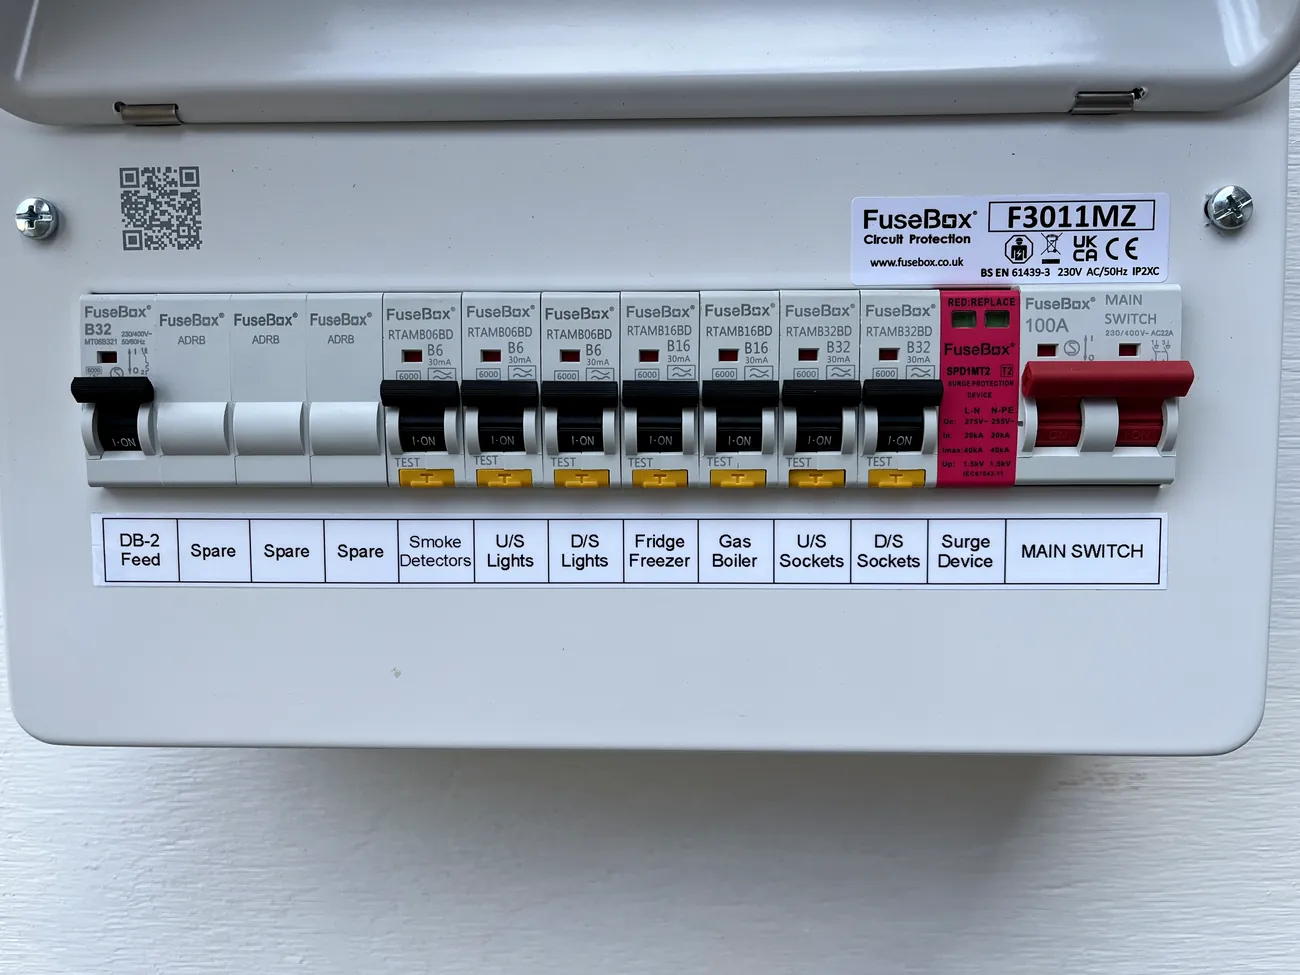
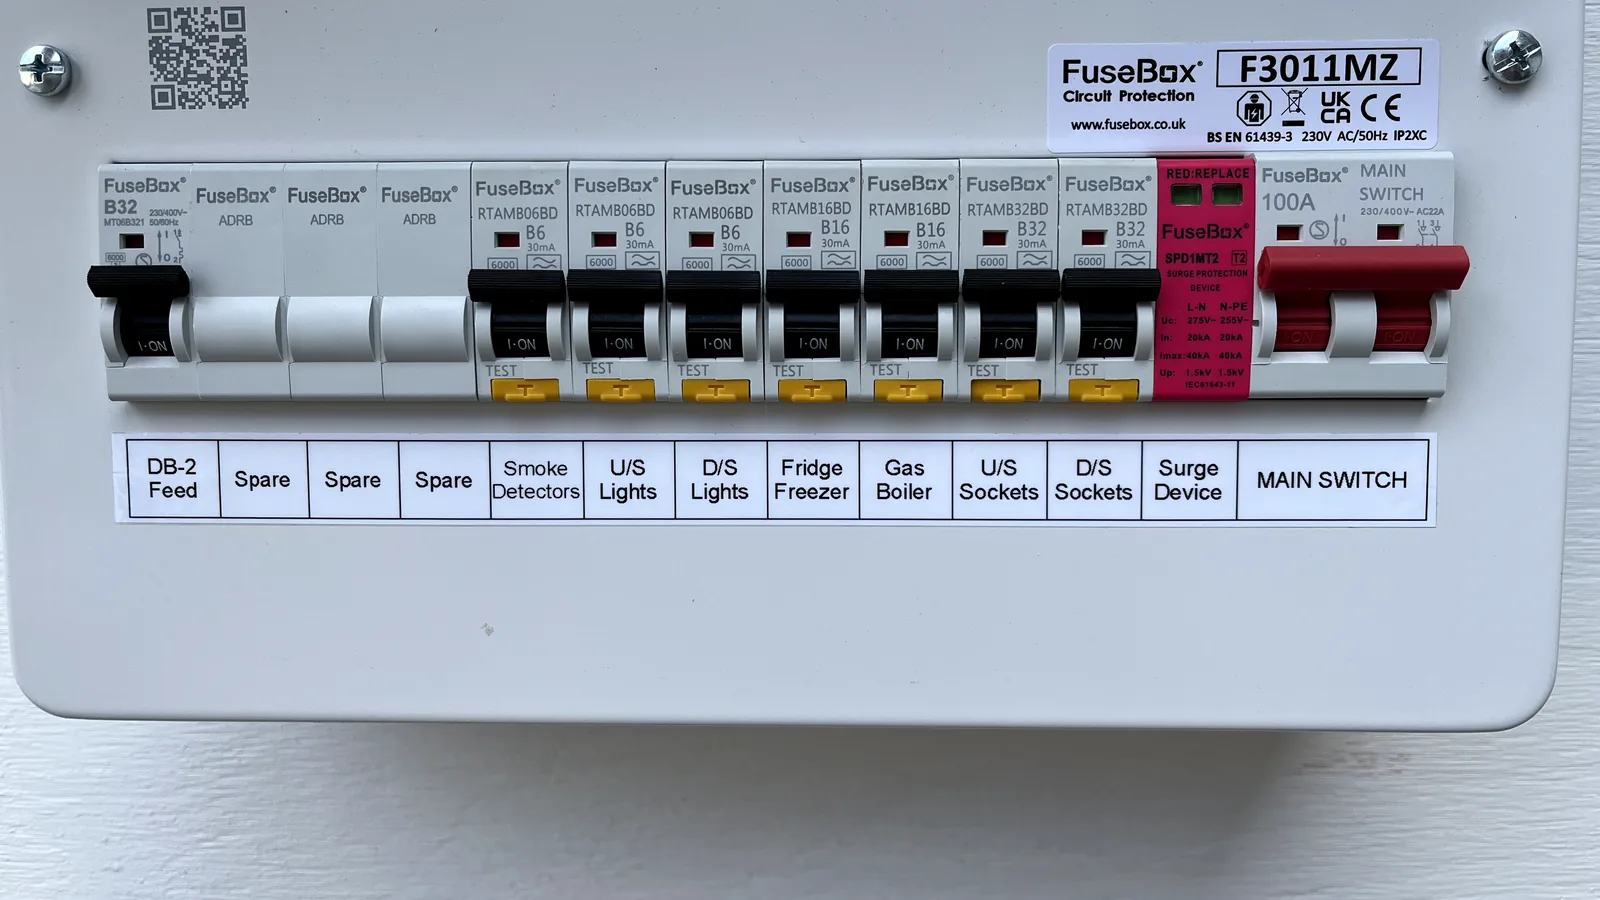
Hero re-crop (16:9, flap removed) + mid-page quote CTAs on 6 service pages
- Homepage hero: re-cropped the board photo to 16:9, dropping the open cover
  flap so the labelled circuit row is the dominant, non-generic content (all
  circuit labels kept). .hero-img aspect-ratio 4/3 -> 16/9.
- Added a mid-page .inline-cta quote banner to the 6 long service pages
  (consumer-unit, EICR, both rewires, cost-guide, new-build), each after a
  value section with benefit-led, service-specific copy pointing at /quote.
  Catches readers who scroll past the top pricing before the bottom CTA.

diff --git a/public/pages/house-rewire-cost-guide-dorset-2026.html b/public/pages/house-rewire-cost-guide-dorset-2026.html
@@ -24,8 +24,8 @@
 <link rel="preconnect" href="https://fonts.googleapis.com">
 <link rel="preconnect" href="https://fonts.gstatic.com" crossorigin>
 <link href="https://fonts.googleapis.com/css2?family=Inter:wght@400;500;600;700;800&amp;display=swap" rel="stylesheet">
-<link rel="stylesheet" href="../assets/css/styles.css?v=49b13499">
-<link rel="stylesheet" href="../assets/css/page.css?v=49b13499">
+<link rel="stylesheet" href="../assets/css/styles.css?v=0820d46a">
+<link rel="stylesheet" href="../assets/css/page.css?v=0820d46a">
 <script type="application/ld+json">
 {"@context":"https://schema.org","@graph":[{"@type":"Article","headline":"House Rewire Cost Guide Dorset 2026","author":{"@type":"Person","name":"Pete"},"publisher":{"@type":"Organization","name":"Dorset Rewires"},"datePublished":"2026-06-04","dateModified":"2026-06-14"},{"@type":"BreadcrumbList","itemListElement":[{"@type":"ListItem","position":1,"name":"Home","item":"https://dorsetrewires.co.uk/"},{"@type":"ListItem","position":2,"name":"Rewire Cost Guide Dorset 2026","item":"https://dorsetrewires.co.uk/house-rewire-cost-guide-dorset-2026"}]},{"@type":"FAQPage","mainEntity":[{"@type":"Question","name":"How much does it cost to rewire a 3-bed house in Dorset?","acceptedAnswer":{"@type":"Answer","text":"A 3-bed rewire in Dorset typically runs from 4,500 to 7,000 pounds in 2026. Big or high-spec homes go higher. The final price is fixed in writing after a free survey, and depends on circuit count, access and how many sockets and lights you want."}},{"@type":"Question","name":"Do I have to move out during a rewire?","acceptedAnswer":{"@type":"Answer","text":"For a full house rewire we work on empty properties only. That keeps the job faster, cleaner and cheaper. Smaller jobs like a consumer unit upgrade, an EICR or an EV charger can be done while you live in the home."}},{"@type":"Question","name":"How long does a house rewire take?","acceptedAnswer":{"@type":"Answer","text":"Most Dorset rewires take 3 to 15 days. A 1-bed flat is around 3 to 4 days. A large 5-bed period home can be 10 to 15 days. An empty property is quicker."}},{"@type":"Question","name":"Do I need a full rewire or just a new consumer unit?","acceptedAnswer":{"@type":"Answer","text":"If the cables are sound but the fuseboard is old, you may only need a new consumer unit from 625 pounds. If the cabling itself is past its safe life, you need a full rewire. A survey or an EICR tells you which."}},{"@type":"Question","name":"How much deposit do you take?","acceptedAnswer":{"@type":"Answer","text":"A 5 percent booking deposit secures your dates. The rest is paid in stages as the work progresses. Be wary of any electrician asking for a large cash deposit up front."}}]}]}
 </script>
@@ -133,6 +133,11 @@
         <li><strong>Lifting and relaying</strong> tiled or solid floors</li>
       </ul>
       <p>We list exactly what is in your job, in writing, before you commit a penny.</p>
+
+      <a class="inline-cta" href="/quote">
+        <span class="ic-text"><strong>Want your number, not a range?</strong>Build your exact rewire price on the quote tool. It uses Pete's real rate card.</span>
+        <span class="ic-btn">Build my price &rarr;</span>
+      </a>
 
       <h2 id="how-long">How long does it take?</h2>
       <p>Most rewires take 3 to 15 days of our time on site. A 1-bed flat is around 3 to 4 days. A big house is a week or more for the first fix, then a week or more for the second fix.</p>
@@ -259,6 +264,6 @@
     <p>&copy; 2026 Dorset Rewires All rights reserved. <a href="/privacy">Privacy</a> &middot; <a href="/terms">Terms</a></p>
   </div>
 </footer>
-<script src="../assets/js/script.js?v=49b13499"></script>
+<script src="../assets/js/script.js?v=0820d46a"></script>
 </body>
 </html>

diff --git a/public/pages/eicr-bournemouth.html b/public/pages/eicr-bournemouth.html
@@ -26,8 +26,8 @@
 <link rel="preconnect" href="https://fonts.googleapis.com">
 <link rel="preconnect" href="https://fonts.gstatic.com" crossorigin>
 <link href="https://fonts.googleapis.com/css2?family=Inter:wght@400;500;600;700;800&amp;display=swap" rel="stylesheet">
-<link rel="stylesheet" href="../assets/css/styles.css?v=49b13499">
-<link rel="stylesheet" href="../assets/css/page.css?v=49b13499">
+<link rel="stylesheet" href="../assets/css/styles.css?v=0820d46a">
+<link rel="stylesheet" href="../assets/css/page.css?v=0820d46a">
 <script type="application/ld+json">
 {
   "@context": "https://schema.org",
@@ -166,6 +166,11 @@
         <li><strong>Anyone deciding on work</strong> - it tells you whether you need a <a href="/consumer-unit-upgrade-bournemouth">new consumer unit</a>, a <a href="/house-rewires-bournemouth">rewire</a>, or nothing at all</li>
       </ul>
       <p>Bournemouth has a large private-rental and HMO market, plus a big student population from Bournemouth University and Arts University Bournemouth driving student lets. That means a lot of landlord EICR demand across the BH postcodes, much of it run through letting agents. We are set up for exactly that work, one property or a whole portfolio.</p>
+
+      <a class="inline-cta" href="/quote">
+        <span class="ic-text"><strong>Know how many circuits you have?</strong>Count the switches on your board, then get your exact EICR price on the quote tool.</span>
+        <span class="ic-btn">Price my EICR &rarr;</span>
+      </a>
 
       <h2 id="local">Local, not a "from &pound;99" call centre</h2>
       <p>Search "EICR Bournemouth" and you will see a wall of national websites baiting you with a headline price. Here is what usually happens next.</p>
@@ -310,6 +315,6 @@
     <p>&copy; 2026 Dorset Rewires All rights reserved. <a href="/privacy">Privacy</a> &middot; <a href="/terms">Terms</a></p>
   </div>
 </footer>
-<script src="../assets/js/script.js?v=49b13499"></script>
+<script src="../assets/js/script.js?v=0820d46a"></script>
 </body>
 </html>

diff --git a/public/pages/house-rewires-bournemouth.html b/public/pages/house-rewires-bournemouth.html
@@ -26,8 +26,8 @@
 <link rel="preconnect" href="https://fonts.googleapis.com">
 <link rel="preconnect" href="https://fonts.gstatic.com" crossorigin>
 <link href="https://fonts.googleapis.com/css2?family=Inter:wght@400;500;600;700;800&amp;display=swap" rel="stylesheet">
-<link rel="stylesheet" href="../assets/css/styles.css?v=49b13499">
-<link rel="stylesheet" href="../assets/css/page.css?v=49b13499">
+<link rel="stylesheet" href="../assets/css/styles.css?v=0820d46a">
+<link rel="stylesheet" href="../assets/css/page.css?v=0820d46a">
 <script type="application/ld+json">
 {
   "@context": "https://schema.org",
@@ -163,6 +163,11 @@
       </table>
       <p>Big period homes, a high-spec install, or a job that includes a heat pump can run &pound;12,000 to &pound;16,000 or more. <a href="/house-rewire-cost-guide-dorset-2026">See the full cost guide</a> for what is included, what pushes the price up, and how to spot a dodgy quote.</p>
 
+      <a class="inline-cta" href="/quote">
+        <span class="ic-text"><strong>Want a real price, not a guess?</strong>Build your exact Bournemouth rewire price now, room by room. It takes a few minutes.</span>
+        <span class="ic-btn">Price my rewire &rarr;</span>
+      </a>
+
       <h2 id="why-us">Why choose Dorset Rewires</h2>
       <ul class="tick-list">
         <li><strong>A price you can build yourself</strong> on our <a href="/quote">instant quote tool</a>, then fixed in writing after a free survey</li>
@@ -259,6 +264,6 @@
     <p>&copy; 2026 Dorset Rewires All rights reserved. <a href="/privacy">Privacy</a> &middot; <a href="/terms">Terms</a></p>
   </div>
 </footer>
-<script src="../assets/js/script.js?v=49b13499"></script>
+<script src="../assets/js/script.js?v=0820d46a"></script>
 </body>
 </html>

diff --git a/public/pages/house-rewires-poole.html b/public/pages/house-rewires-poole.html
@@ -26,8 +26,8 @@
 <link rel="preconnect" href="https://fonts.googleapis.com">
 <link rel="preconnect" href="https://fonts.gstatic.com" crossorigin>
 <link href="https://fonts.googleapis.com/css2?family=Inter:wght@400;500;600;700;800&amp;display=swap" rel="stylesheet">
-<link rel="stylesheet" href="../assets/css/styles.css?v=49b13499">
-<link rel="stylesheet" href="../assets/css/page.css?v=49b13499">
+<link rel="stylesheet" href="../assets/css/styles.css?v=0820d46a">
+<link rel="stylesheet" href="../assets/css/page.css?v=0820d46a">
 <script type="application/ld+json">
 {
   "@context": "https://schema.org",
@@ -165,6 +165,11 @@
       </table>
       <p>Big period homes, a high-spec install, or a job that includes a heat pump can run &pound;12,000 to &pound;16,000 or more. <a href="/house-rewire-cost-guide-dorset-2026">See the full cost guide</a> for what is included, what pushes the price up, and how to spot a dodgy quote.</p>
 
+      <a class="inline-cta" href="/quote">
+        <span class="ic-text"><strong>Want a real price, not a guess?</strong>Build your exact Poole rewire price now, room by room. It takes a few minutes.</span>
+        <span class="ic-btn">Price my rewire &rarr;</span>
+      </a>
+
       <h2 id="why-us">Why choose Dorset Rewires</h2>
       <ul class="tick-list">
         <li><strong>A price you can build yourself</strong> on our <a href="/quote">instant quote tool</a>, then fixed in writing after a free survey</li>
@@ -262,6 +267,6 @@
     <p>&copy; 2026 Dorset Rewires All rights reserved. <a href="/privacy">Privacy</a> &middot; <a href="/terms">Terms</a></p>
   </div>
 </footer>
-<script src="../assets/js/script.js?v=49b13499"></script>
+<script src="../assets/js/script.js?v=0820d46a"></script>
 </body>
 </html>

diff --git a/public/index.html b/public/index.html
@@ -39,7 +39,7 @@
 <link rel="preconnect" href="https://fonts.gstatic.com" crossorigin>
 <link href="https://fonts.googleapis.com/css2?family=Inter:wght@400;500;600;700;800&amp;display=swap" rel="stylesheet">
 
-<link rel="stylesheet" href="assets/css/styles.css?v=49b13499">
+<link rel="stylesheet" href="assets/css/styles.css?v=0820d46a">
 
 <script type="application/ld+json">
 {
@@ -178,7 +178,7 @@
       <p class="micro-trust">Pete picks up &middot; 7am-7pm Mon-Sat &middot; Callback within 1 hour, guaranteed</p>
     </div>
     <div class="hero-photo">
-      <img class="hero-img" src="/assets/img/consumer-unit-rcbo-board-bournemouth.webp" width="1300" height="975" fetchpriority="high" alt="Modern RCBO consumer unit wired and labelled by Dorset Rewires, with every circuit individually protected and Type 2 surge protection">
+      <img class="hero-img" src="/assets/img/consumer-unit-rcbo-board-bournemouth.webp" width="1600" height="900" fetchpriority="high" alt="Modern RCBO consumer unit wired and labelled by Dorset Rewires, with every circuit individually protected and Type 2 surge protection">
       <div class="hero-badge">
         <div class="hb-stars" aria-hidden="true">&#9733;&#9733;&#9733;&#9733;&#9733;</div>
         <div class="hb-rating">Google</div>
@@ -715,8 +715,8 @@
   </a>
 </aside>
 
-<script src="assets/js/dr-config.js?v=49b13499"></script>
-<script src="assets/js/script.js?v=49b13499"></script>
-<script src="assets/js/reviews-carousel.js?v=49b13499"></script>
+<script src="assets/js/dr-config.js?v=0820d46a"></script>
+<script src="assets/js/script.js?v=0820d46a"></script>
+<script src="assets/js/reviews-carousel.js?v=0820d46a"></script>
 </body>
 </html>

diff --git a/public/pages/new-build-electrician-dorset.html b/public/pages/new-build-electrician-dorset.html
@@ -26,8 +26,8 @@
 <link rel="preconnect" href="https://fonts.googleapis.com">
 <link rel="preconnect" href="https://fonts.gstatic.com" crossorigin>
 <link href="https://fonts.googleapis.com/css2?family=Inter:wght@400;500;600;700;800&amp;display=swap" rel="stylesheet">
-<link rel="stylesheet" href="../assets/css/styles.css?v=49b13499">
-<link rel="stylesheet" href="../assets/css/page.css?v=49b13499">
+<link rel="stylesheet" href="../assets/css/styles.css?v=0820d46a">
+<link rel="stylesheet" href="../assets/css/page.css?v=0820d46a">
 <script type="application/ld+json">
 {
   "@context": "https://schema.org",
@@ -174,6 +174,11 @@
       </ul>
       <p>Not sure what you need? That is normal. Pete talks it through in plain English and helps you pick what is worth wiring in now and what can wait. There is no upsell - you only pay for what goes in.</p>
 
+      <a class="inline-cta" href="/quote">
+        <span class="ic-text"><strong>Got your plans?</strong>Build a price for your new build wiring now, on Pete's real rate card.</span>
+        <span class="ic-btn">Price my new build &rarr;</span>
+      </a>
+
       <h2 id="paperwork">Certification and paperwork</h2>
       <p>The paperwork is done properly and handed over clean. Here is exactly what you get, and how the sign-off works.</p>
       <ul class="tick-list">
@@ -297,6 +302,6 @@
     <p>&copy; 2026 Dorset Rewires All rights reserved. <a href="/privacy">Privacy</a> &middot; <a href="/terms">Terms</a></p>
   </div>
 </footer>
-<script src="../assets/js/script.js?v=49b13499"></script>
+<script src="../assets/js/script.js?v=0820d46a"></script>
 </body>
 </html>

diff --git a/public/pages/consumer-unit-upgrade-bournemouth.html b/public/pages/consumer-unit-upgrade-bournemouth.html
@@ -26,8 +26,8 @@
 <link rel="preconnect" href="https://fonts.googleapis.com">
 <link rel="preconnect" href="https://fonts.gstatic.com" crossorigin>
 <link href="https://fonts.googleapis.com/css2?family=Inter:wght@400;500;600;700;800&amp;display=swap" rel="stylesheet">
-<link rel="stylesheet" href="../assets/css/styles.css?v=49b13499">
-<link rel="stylesheet" href="../assets/css/page.css?v=49b13499">
+<link rel="stylesheet" href="../assets/css/styles.css?v=0820d46a">
+<link rel="stylesheet" href="../assets/css/page.css?v=0820d46a">
 <script type="application/ld+json">
 {
   "@context": "https://schema.org",
@@ -144,6 +144,11 @@
         <li><strong>A 10-year workmanship guarantee</strong> in writing</li>
       </ul>
       <p>The price is fixed. We charge <strong>materials at cost with no markup</strong>, and there is no VAT to add.</p>
+
+      <a class="inline-cta" href="/quote">
+        <span class="ic-text"><strong>Want your exact price?</strong>Build it on the quote tool in under a minute. It uses Pete's real rate card, so it is your price, not a callback.</span>
+        <span class="ic-btn">Get my price &rarr;</span>
+      </a>
 
       <h2 id="signs">Do you need a new fusebox?</h2>
       <p>Two quick tells you can check yourself:</p>
@@ -282,6 +287,6 @@
     <p>&copy; 2026 Dorset Rewires All rights reserved. <a href="/privacy">Privacy</a> &middot; <a href="/terms">Terms</a></p>
   </div>
 </footer>
-<script src="../assets/js/script.js?v=49b13499"></script>
+<script src="../assets/js/script.js?v=0820d46a"></script>
 </body>
 </html>

diff --git a/public/pages/partners.html b/public/pages/partners.html
@@ -25,8 +25,8 @@
 <link rel="preconnect" href="https://fonts.googleapis.com">
 <link rel="preconnect" href="https://fonts.gstatic.com" crossorigin>
 <link href="https://fonts.googleapis.com/css2?family=Inter:wght@400;500;600;700;800&amp;display=swap" rel="stylesheet">
-<link rel="stylesheet" href="../assets/css/styles.css?v=49b13499">
-<link rel="stylesheet" href="../assets/css/page.css?v=49b13499">
+<link rel="stylesheet" href="../assets/css/styles.css?v=0820d46a">
+<link rel="stylesheet" href="../assets/css/page.css?v=0820d46a">
 </head>
 <body>
 <a class="skip-link" href="#main">Skip to main content</a>
@@ -156,8 +156,8 @@
     <p>&copy; 2026 Dorset Rewires All rights reserved. <a href="/privacy">Privacy</a> &middot; <a href="/terms">Terms</a></p>
   </div>
 </footer>
-<script src="../assets/js/dr-config.js?v=49b13499"></script>
-<script src="../assets/js/script.js?v=49b13499"></script>
+<script src="../assets/js/dr-config.js?v=0820d46a"></script>
+<script src="../assets/js/script.js?v=0820d46a"></script>
 <script>
 // Show the EICR perk value pulled LIVE from the price list (single source of truth,
 // never hardcode a price). Injects "(worth up to £X)" using the top domestic band.

diff --git a/public/pages/refer.html b/public/pages/refer.html
@@ -30,8 +30,8 @@
 <link rel="preconnect" href="https://fonts.googleapis.com">
 <link rel="preconnect" href="https://fonts.gstatic.com" crossorigin>
 <link href="https://fonts.googleapis.com/css2?family=Inter:wght@400;500;600;700;800&amp;display=swap" rel="stylesheet">
-<link rel="stylesheet" href="../assets/css/styles.css?v=49b13499">
-<link rel="stylesheet" href="../assets/css/page.css?v=49b13499">
+<link rel="stylesheet" href="../assets/css/styles.css?v=0820d46a">
+<link rel="stylesheet" href="../assets/css/page.css?v=0820d46a">
 </head>
 <body>
 <a class="skip-link" href="#main">Skip to main content</a>
@@ -148,8 +148,8 @@
     <p>&copy; 2026 Dorset Rewires All rights reserved. <a href="/privacy">Privacy</a> &middot; <a href="/terms">Terms</a></p>
   </div>
 </footer>
-<script src="../assets/js/dr-config.js?v=49b13499"></script>
-<script src="../assets/js/script.js?v=49b13499"></script>
+<script src="../assets/js/dr-config.js?v=0820d46a"></script>
+<script src="../assets/js/script.js?v=0820d46a"></script>
 <script>
 // (1) Inject the free-check value LIVE from the price list (never hardcode a price).
 // (2) Build the WhatsApp share link with a pre-written, friendly message.

diff --git a/public/reviews.html b/public/reviews.html
@@ -25,8 +25,8 @@
 <link rel="preconnect" href="https://fonts.googleapis.com">
 <link rel="preconnect" href="https://fonts.gstatic.com" crossorigin>
 <link href="https://fonts.googleapis.com/css2?family=Inter:wght@400;500;600;700;800&amp;display=swap" rel="stylesheet">
-<link rel="stylesheet" href="assets/css/styles.css?v=49b13499">
-<link rel="stylesheet" href="assets/css/page.css?v=49b13499">
+<link rel="stylesheet" href="assets/css/styles.css?v=0820d46a">
+<link rel="stylesheet" href="assets/css/page.css?v=0820d46a">
 </head>
 <body>
 <a class="skip-link" href="#main">Skip to main content</a>
@@ -137,7 +137,7 @@
   <a class="mcb-email" href="mailto:info@dorsetrewires.co.uk" aria-label="Email us"><svg width="20" height="20" viewBox="0 0 24 24"><path fill="currentColor" d="M4 6h16v12H4zm0 2 8 5 8-5"/></svg></a>
 </aside>
 
-<script src="assets/js/script.js?v=49b13499"></script>
-<script src="assets/js/reviews-carousel.js?v=49b13499"></script>
+<script src="assets/js/script.js?v=0820d46a"></script>
+<script src="assets/js/reviews-carousel.js?v=0820d46a"></script>
 </body>
 </html>

diff --git a/public/quote.html b/public/quote.html
@@ -29,8 +29,8 @@
 <link rel="preconnect" href="https://fonts.googleapis.com">
 <link rel="preconnect" href="https://fonts.gstatic.com" crossorigin>
 <link href="https://fonts.googleapis.com/css2?family=Inter:wght@400;500;600;700;800&amp;display=swap" rel="stylesheet">
-<link rel="stylesheet" href="assets/css/styles.css?v=49b13499">
-<link rel="stylesheet" href="assets/css/quote.css?v=49b13499">
+<link rel="stylesheet" href="assets/css/styles.css?v=0820d46a">
+<link rel="stylesheet" href="assets/css/quote.css?v=0820d46a">
 </head>
 <body>
 
@@ -373,9 +373,9 @@
   </div>
 </div>
 
-<script src="assets/js/dr-config.js?v=49b13499"></script>
-<script src="assets/js/script.js?v=49b13499"></script>
-<script src="assets/js/quote-calculator-logic.js?v=49b13499"></script>
-<script src="assets/js/pwa.js?v=49b13499"></script>
+<script src="assets/js/dr-config.js?v=0820d46a"></script>
+<script src="assets/js/script.js?v=0820d46a"></script>
+<script src="assets/js/quote-calculator-logic.js?v=0820d46a"></script>
+<script src="assets/js/pwa.js?v=0820d46a"></script>
 </body>
 </html>

diff --git a/public/pages/electrician-bournemouth.html b/public/pages/electrician-bournemouth.html
@@ -26,8 +26,8 @@
 <link rel="preconnect" href="https://fonts.googleapis.com">
 <link rel="preconnect" href="https://fonts.gstatic.com" crossorigin>
 <link href="https://fonts.googleapis.com/css2?family=Inter:wght@400;500;600;700;800&amp;display=swap" rel="stylesheet">
-<link rel="stylesheet" href="../assets/css/styles.css?v=49b13499">
-<link rel="stylesheet" href="../assets/css/page.css?v=49b13499">
+<link rel="stylesheet" href="../assets/css/styles.css?v=0820d46a">
+<link rel="stylesheet" href="../assets/css/page.css?v=0820d46a">
 <script type="application/ld+json">
 {
   "@context": "https://schema.org",
@@ -223,6 +223,6 @@
     <p>&copy; 2026 Dorset Rewires All rights reserved. <a href="/privacy">Privacy</a> &middot; <a href="/terms">Terms</a></p>
   </div>
 </footer>
-<script src="../assets/js/script.js?v=49b13499"></script>
+<script src="../assets/js/script.js?v=0820d46a"></script>
 </body>
 </html>
